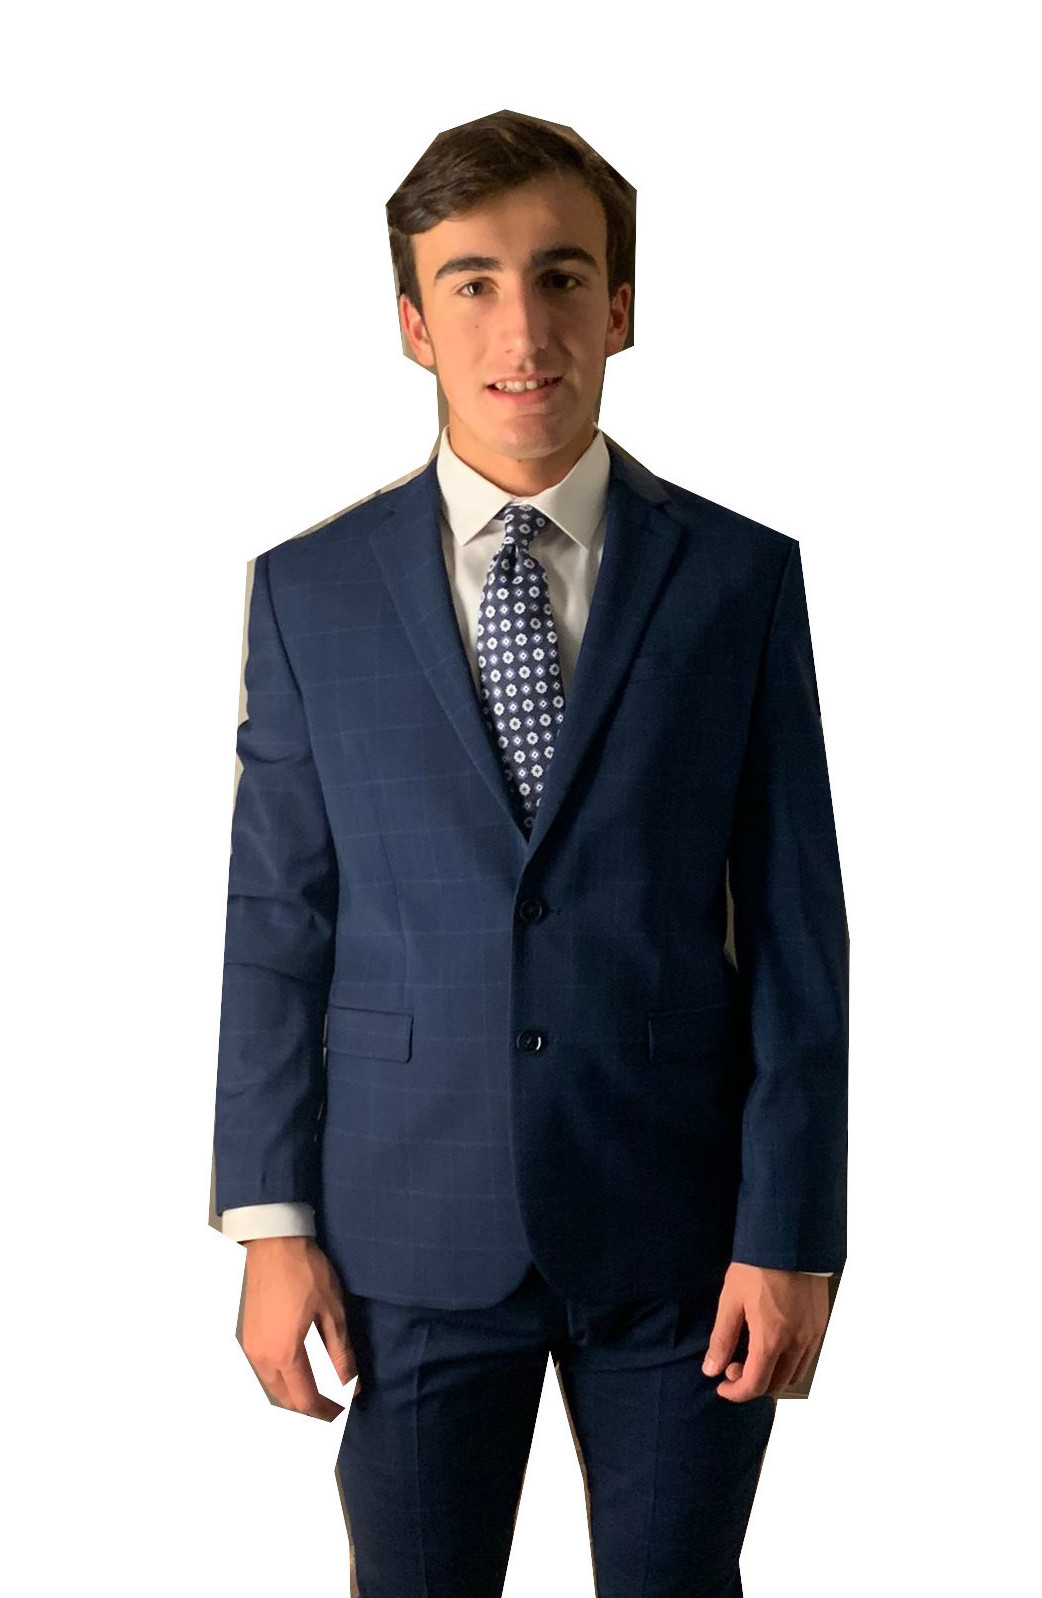
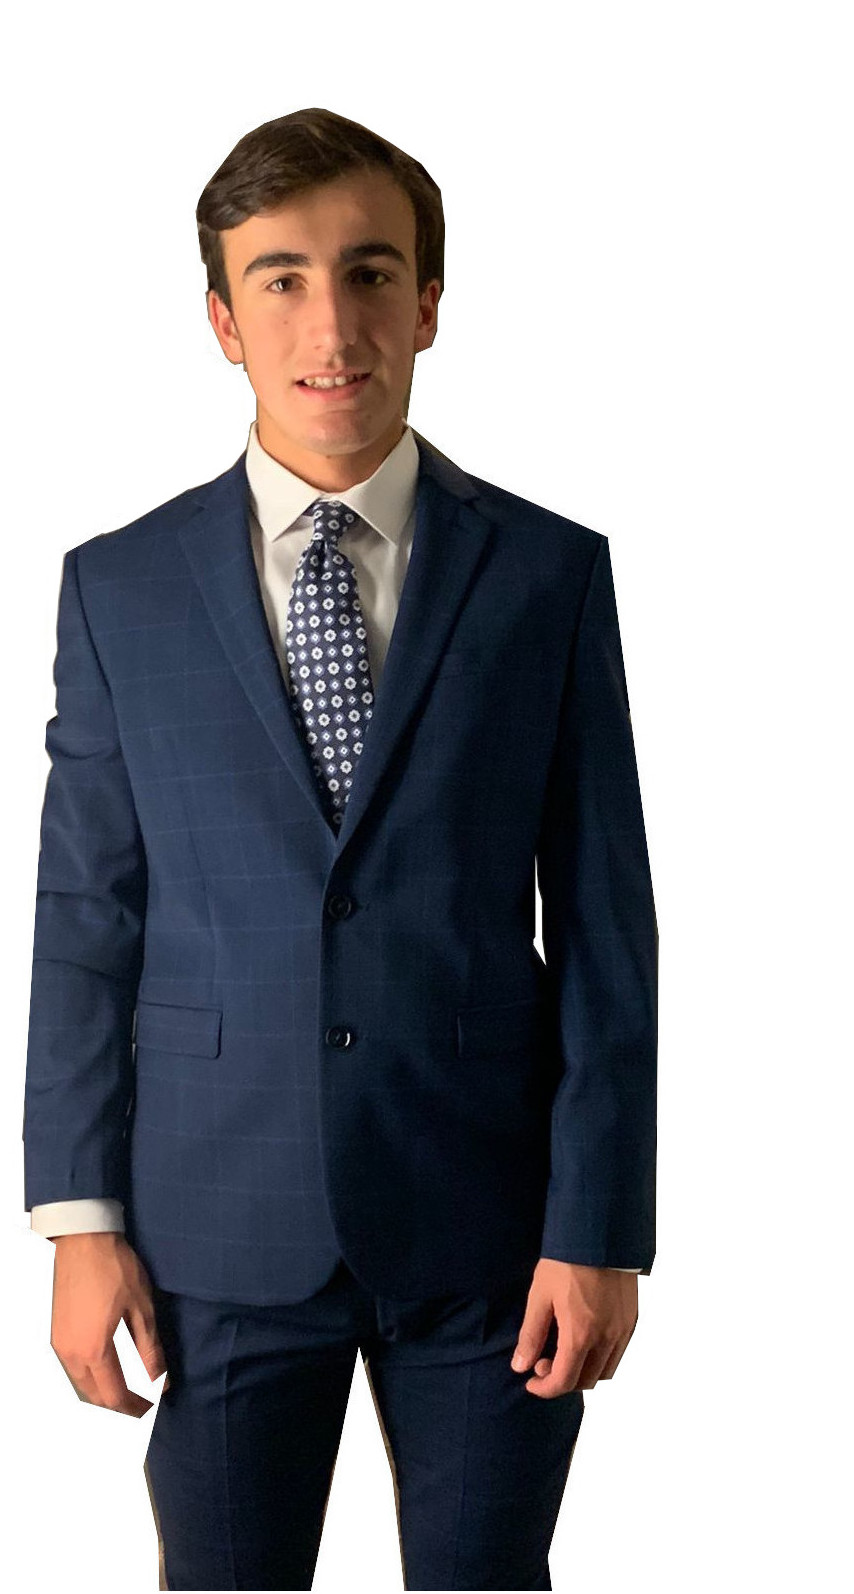
image changes

diff --git a/index.html b/index.html
@@ -22,7 +22,7 @@
           <div class="u-layout-row">
             <div class="u-align-left u-container-style u-layout-cell u-left-cell u-size-33-lg u-size-33-xl u-size-60-md u-size-60-sm u-size-60-xs u-layout-cell-1">
               <div class="u-container-layout u-valign-bottom u-container-layout-1"></div>
-                <img src="/assets/images/profile.jpg" width="603" height="755"><img/>
+                <img src="/assets/images/profile.jpg" width="427" height="755"><img/>
             </div>
             <div class="u-align-left u-container-style u-layout-cell u-right-cell u-size-27-lg u-size-27-xl u-size-60-md u-size-60-sm u-size-60-xs u-layout-cell-2">
               <div class="u-container-layout u-container-layout-2">
